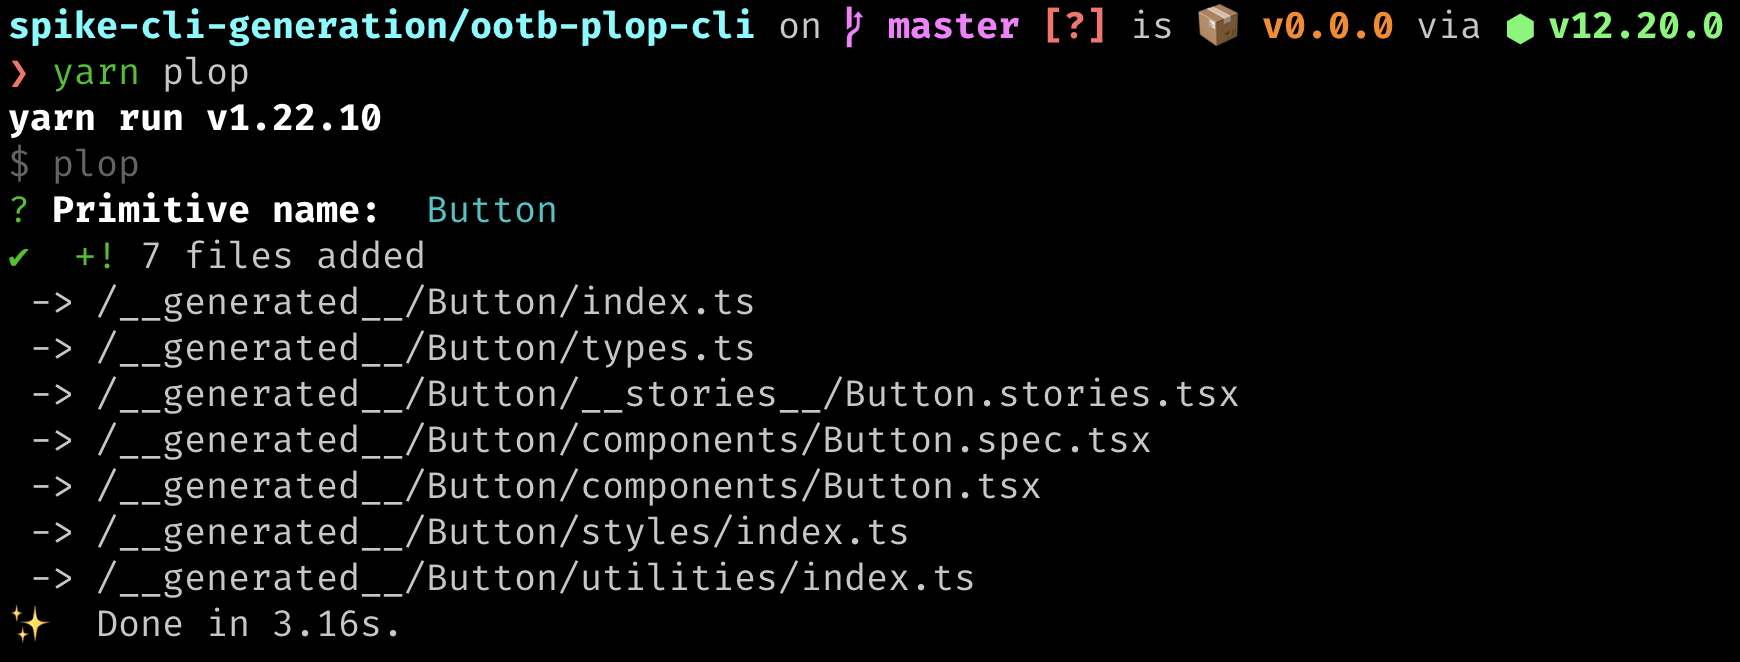
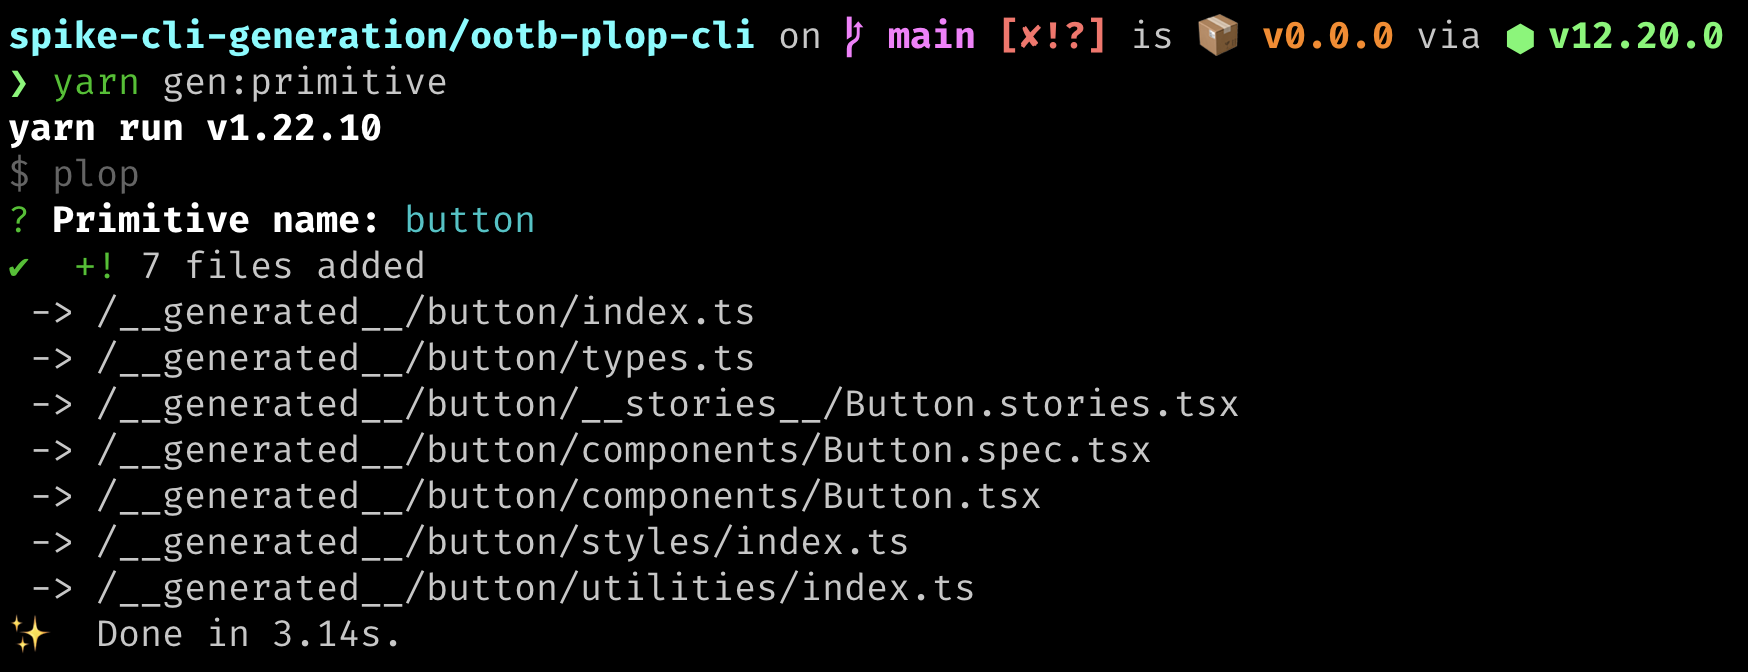
feat: add Hygen example

diff --git a/README.md b/README.md
@@ -6,6 +6,14 @@ This repo explores a few options for generation of code from templates.
 
 [Plop](https://github.com/plopjs/plop) is a [popular](https://www.npmtrends.com/hygen-vs-plop-vs-slush-vs-yeoman-generator) generation framework that glues together [Inquirer](https://github.com/SBoudrias/Inquirer.js/) for CLI prompts and [Handlebars](https://github.com/handlebars-lang/handlebars.js) for creating templates.
 
-The `ootb-plop-cli` workspace shows how Plop can be used to generate a design system primitive. We provide a template like the `__templates__/primitive` directory, a `plopfile.ts` configuration and call the `plop` command to generate a primitive with the name of our choosing.
+The `ootb-plop-cli` workspace shows how Plop can be used to generate a design system primitive. We provide a template like the `__templates__/primitive` directory, a `plopfile.ts` configuration and call the `gen:primitive` command to generate a primitive with the name of our choosing.
 
 <p align="center"><img src="/docs/ootb-plop-cli.png"/></p>
+
+### Hygen
+
+[Hygen](https://github.com/jondot/hygen) is a code generator that stitches together [Enquirer](https://github.com/enquirer/enquirer) for CLI prompts and [Embedded JavaScript templates](https://github.com/mde/ejs) for creating templates.
+
+The `hygen` workspace shows how Hygen can be used to generate a design system primitive. After initializing Hygen with `npx hygen init self` we can use the `new` generator that is generated for us (so meta) to create our own generators. We create a primitive generator with `npx hygen generator new primitive`, fill the contents of the `primitive/new` directory with desired output and make use of Hygen [helpers and inflections](https://www.hygen.io/docs/templates#helpers-and-inflections) within the EJS to craft the output.
+
+<p align="center"><img src="/docs/hygen.png"/></p>
